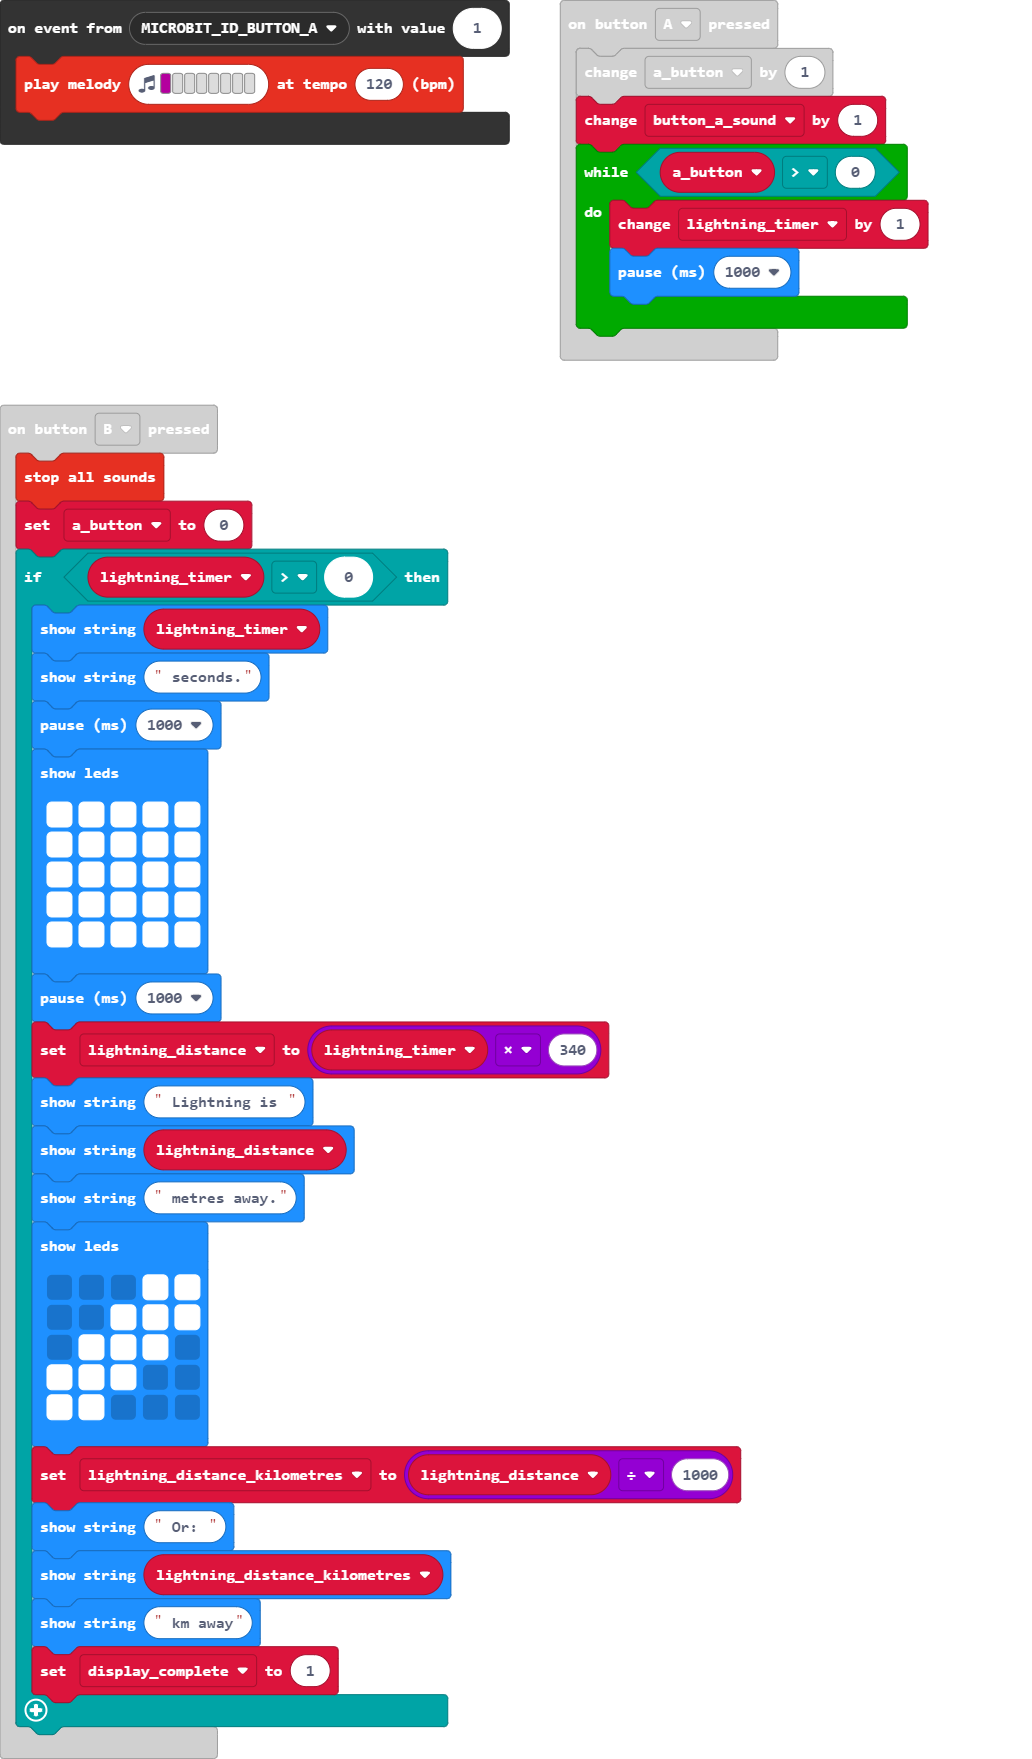
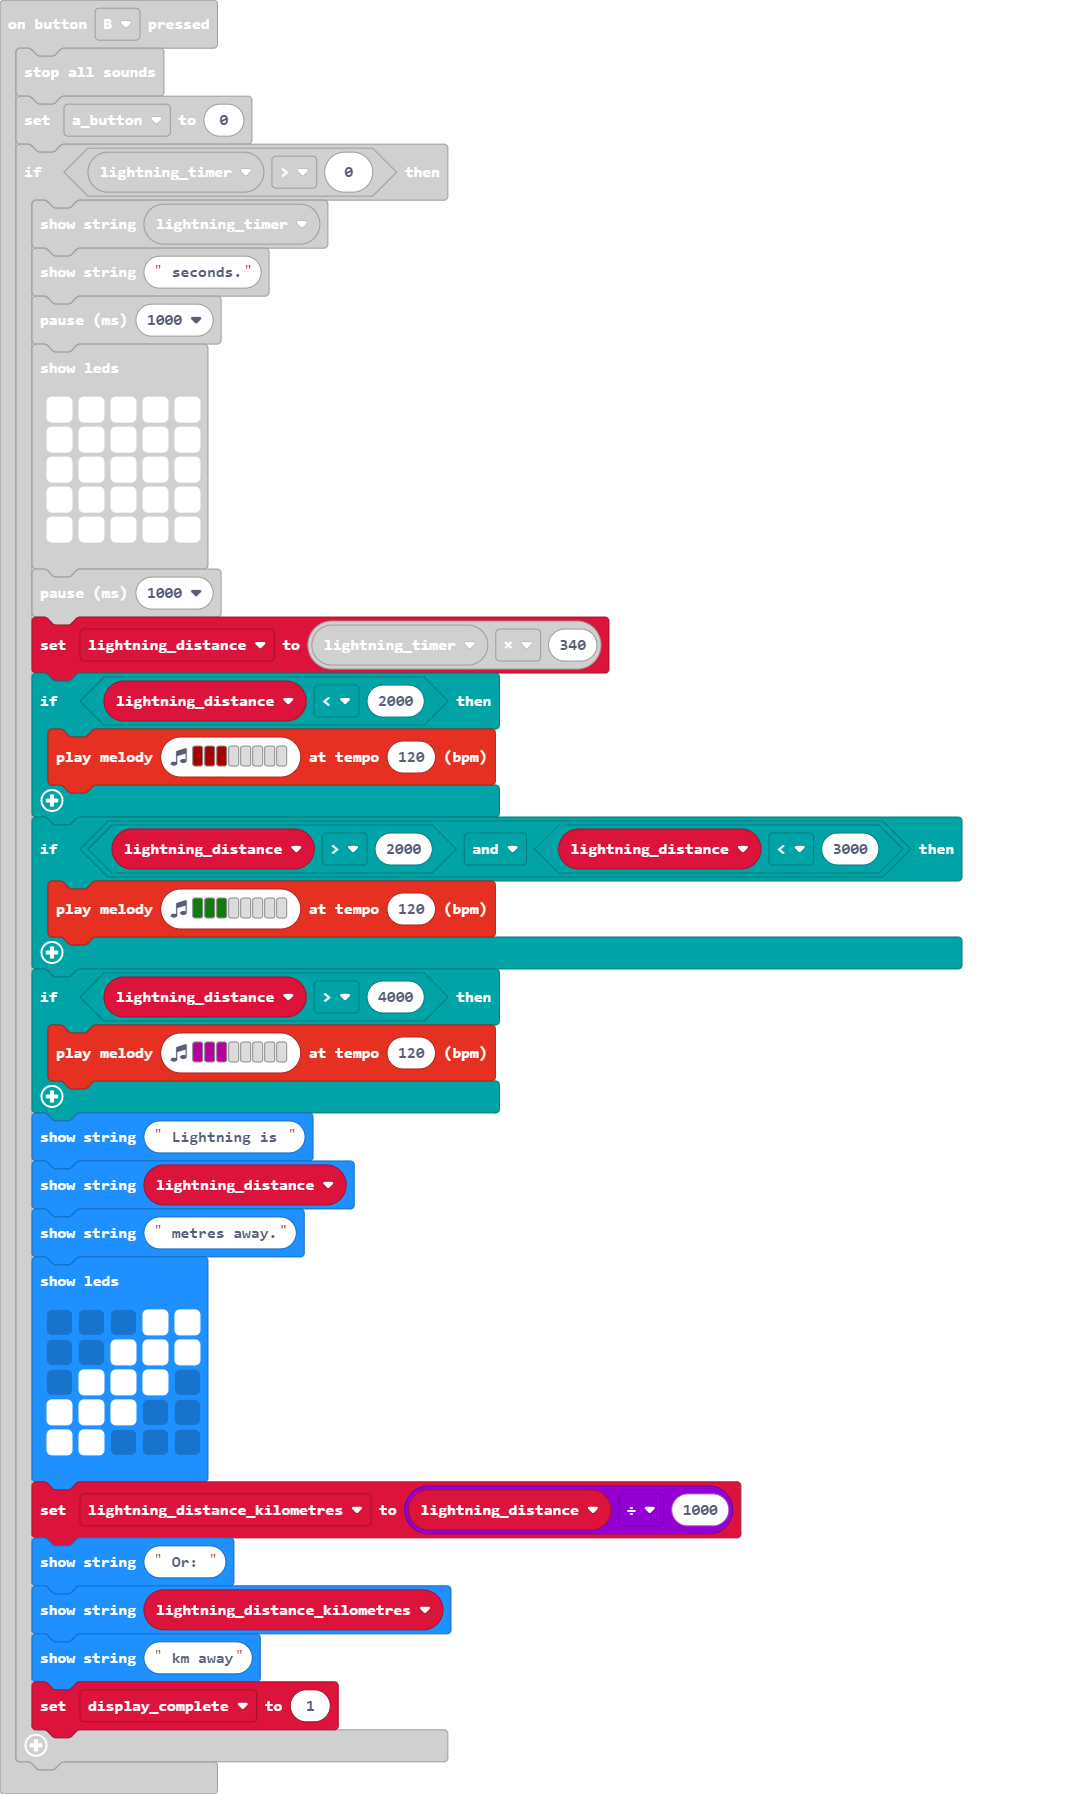
Update pxt.json, main.blocks, main.ts

diff --git a/main.ts b/main.ts
@@ -33,6 +33,15 @@ input.onButtonPressed(Button.B, function () {
             `)
         basic.pause(1000)
         lightning_distance = lightning_timer * 340
+        if (lightning_distance < 2000) {
+            music.playMelody("C5 C5 C5 - - - - - ", 120)
+        }
+        if (lightning_distance > 2000 && lightning_distance < 3000) {
+            music.playMelody("G G G - - - - - ", 120)
+        }
+        if (lightning_distance > 4000) {
+            music.playMelody("C C C - - - - - ", 120)
+        }
         basic.showString(" Lightning is ")
         basic.showString("" + (lightning_distance))
         basic.showString(" metres away.")
